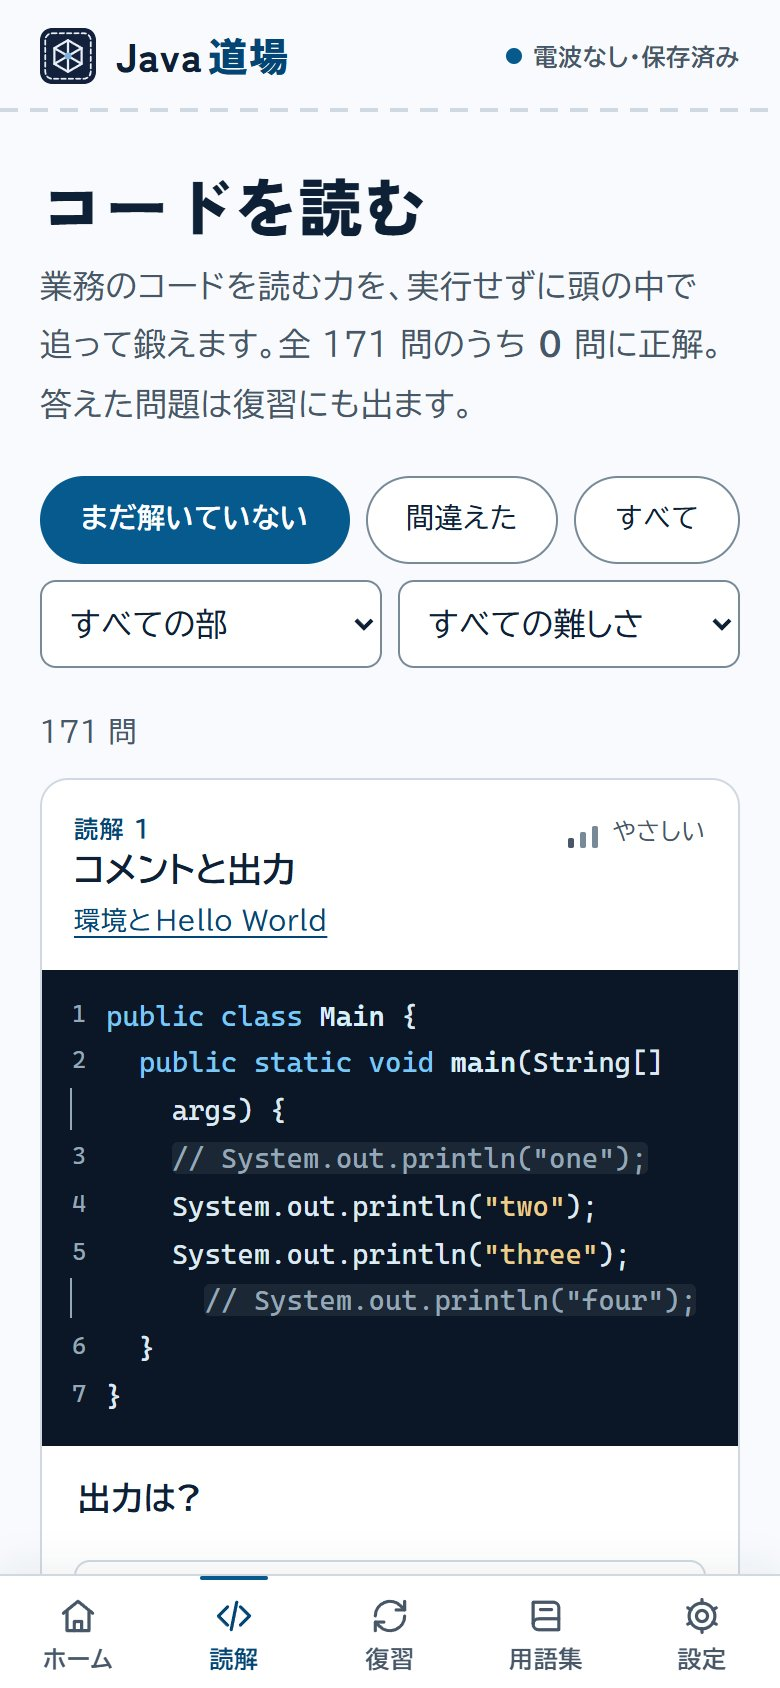
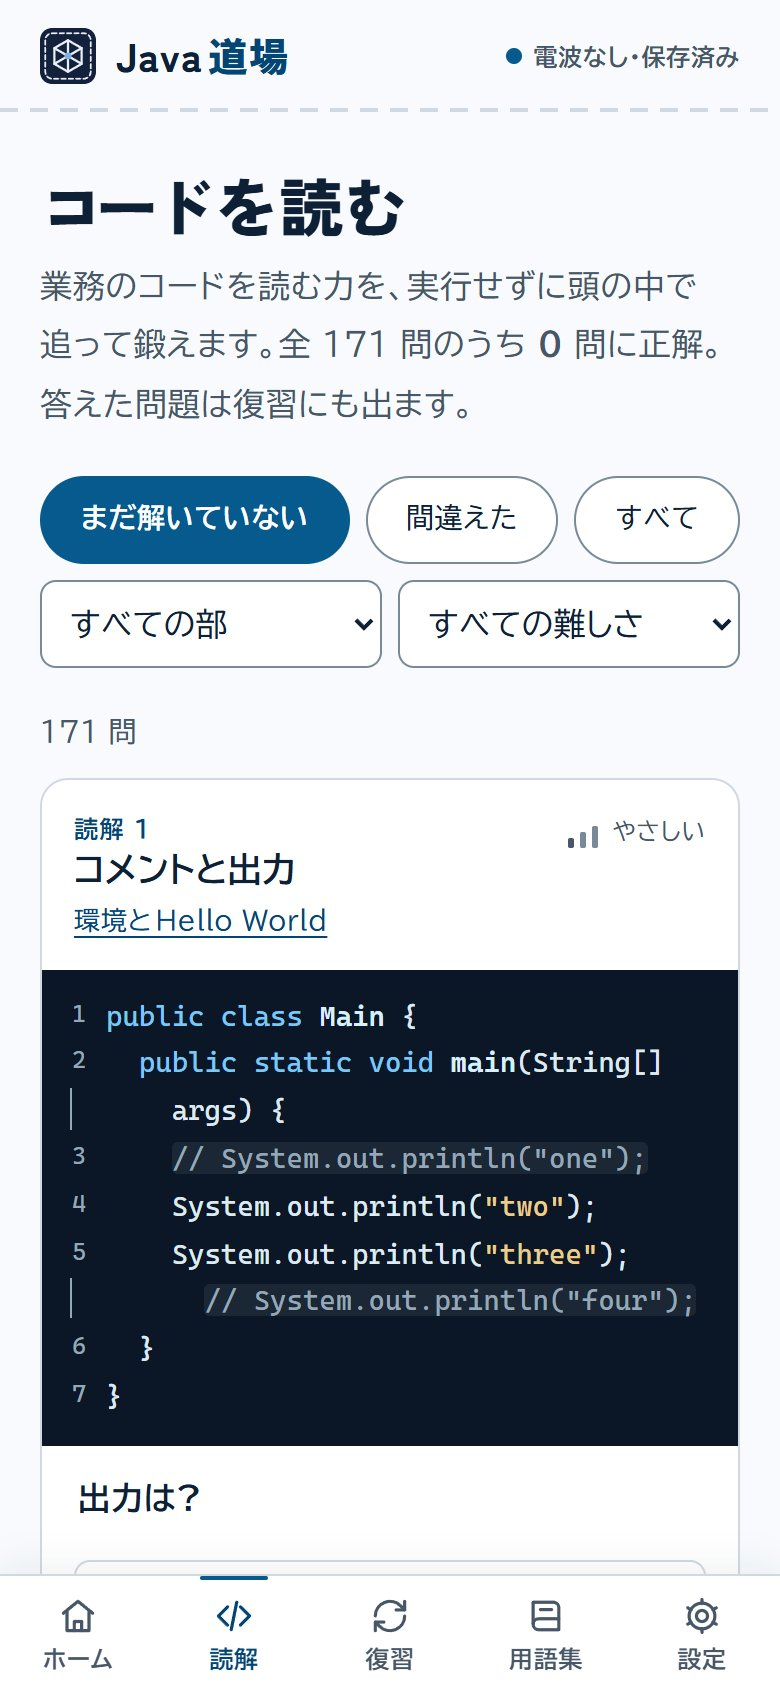
docs: 16 回目の審査の記録、17 回目の撮影とオフラインの確認を残した

Changed region(s): [[0.2154, 0.0924, 0.5538, 0.154]]

diff --git a/docs/reviews/round16-codex.md b/docs/reviews/round16-codex.md
@@ -1,0 +1,36 @@
+# 16 回目の審査(Codex・決まった物差し)
+
+対象: `docs/screenshots/round16/` と `round15/` の比較、ソースと `docs/review-rubric.md`。凍結したコミット e64450b で審査した(利用上限のため、Claude より数時間あとに実行)。
+
+## 点数
+
+Design: 8.5 / Usability: 8.0 / Creativity: 9.0 / Content: 8.5
+
+## 項目の判定
+
+D1 満たす / D2 満たす / D3 満たす / D4 満たす / D5 満たす
+
+U1 満たす / U2 満たす / U3 一部（本文・サンプルのコードに13pxが残る） / U4 一部（用語集の検索・索引に44px未満の操作幅） / U5 満たす
+
+C1 満たす / C2 満たす / C3 満たす / C4 満たす
+
+N1 満たす / N2 満たす / N3 満たす / N4 満たす
+
+判定は同名16組の左右比較、関連ソース、今回のオフライン撮影・記録によるもの。C4は実装確認、N項目は確認した教材の範囲で判定した。掲載例は[Java 21の仕様](https://docs.oracle.com/en/java/javase/21/docs/specs/man/java.html)・[Lombokの仕様](https://projectlombok.org/features/constructor)とも照合した。実機操作・読み上げ・動きの実見・全教材の実行は未検証。両版と配布版JSの`node --check`、配布CSS・JSの一致確認は通過。`./mvnw test`は書き込みを伴うため未実行。ファイル変更なし。
+
+## 前回からの変化(良くなった・悪くなった)
+
+- **良くなった：仕事コードの注釈。** 基本指定が14pxになり、前回の「414・430px幅では13pxに戻る」はソース上で解消。390pxの読みやすさを維持し、PCでもコードと注釈の主従が保たれている。
+- **良くなった：段一覧の高さ制御。** 固定の160px下限を撤去し、空間が足りない場合は帯を上へ送る実装になった。`m-lesson-top.jpg`でも一覧の下端とナビが離れている。ただし、続きの行は文字の上端がわずかに見える程度で、改善効果は控えめ。
+- **良くなった：用語集から教材へ戻るリンク。** 高さ32pxから44pxへ修正。`m-terms.jpg`と`pc-glossary.jpg`では説明との間に余白ができ、リンクと本文を区別しやすくなった。
+- **良くなった：オフラインの確認資料。** 撮影が更新され、現在の運針と「電波なし・保存済み」、図・読解・用語集の表示を確認できる。
+- **維持：顔と独自性。** 大きな札、藍の軸、運針が、ホームから教材・採点まで同じ言葉でつながっている。明暗両表示とも主操作と情報の優先順位は崩れていない。
+- **悪くなった点：比較画像に実用上の退行は見当たらない。** 以下は今回の変更による不具合ではなく、前回レビューで指摘されていなかった既存の基準未達。
+
+## 8.5 に届かない理由(項目・画面・直し方)
+
+1. **U3｜スマホのレッスン本文・「サンプルを見る」：コードの14px化が一部に限られる。**  
+   [app.css:1024](C:/Users/yeol0/Claude/Sayana-r16/src/main/resources/static/css/app.css:1024)では、760px以下の通常の`pre`が13px。14pxへの上書きは`pre.code-lines`だけで、[サンプルの出力](C:/Users/yeol0/Claude/Sayana-r16/src/main/resources/mobile/app.js:583)にはそのクラスが付かない。仕事コード・クイズ・読解では解消したが、本文の例とサンプルを読む場面に、U3の下限未達が残る。**スマホの通常のコードも14px以上にする。横スクロールの方式は維持してよい。**
+
+2. **U4｜用語集の検索・行索引：高さは足りるが、押せる幅が不足する。**  
+   `m-terms.jpg`上部の虫めがねは[幅32px指定](C:/Users/yeol0/Claude/Sayana-r16/src/main/resources/static/css/app.css:745)、一文字の索引は[幅40px指定](C:/Users/yeol0/Claude/Sayana-r16/src/main/resources/static/css/app.css:742)。修正された教材リンクとは別に、検索へ戻る入口と隣接する索引に44×44px未満が残っている。**検索・索引とも最小幅を44pxにし、アイコンの見た目の大きさは維持する。**

diff --git a/docs/design-review.md b/docs/design-review.md
@@ -42,6 +42,8 @@ Claude と Codex が交互にレビューし、Awwwards の 4 項目(Design / Us
 | 14 | Claude | 8.0 | 8.0 | 9.0 | 8.5 | いいえ(同上) |
 | 15 | Codex | 8.5 | 8.0 | 9.0 | 8.5 | いいえ(Usability だけ 8.0) |
 | 15 | Claude | 8.5 | 8.5 | 9.0 | 8.5 | **はい**(初めて全項目 8.5 以上) |
+| 16 | Codex | 8.5 | 8.0 | 9.0 | 8.5 | いいえ(Usability だけ 8.0) |
+| 16 | Claude | 8.5 | 8.5 | 9.0 | 8.5 | **はい**(2 回続けて) |
 
 ## 1 回目(撮影: `docs/screenshots/round1/`、全文: [reviews/round1-codex.md](reviews/round1-codex.md)・[reviews/round1-claude.md](reviews/round1-claude.md))
 
@@ -434,3 +436,18 @@ Claude は初めて全項目 8.5 以上(8.5 / 8.5 / 9.0 / 8.5)。Codex は Usabi
 | 用語集のリンク | 押せる高さを 44px に(字の大きさは同じ) |
 | オフラインの撮影 | 撮り直した(16 回目) |
 | 長音記号 | 直していない(見出しの書体に palt がなく、字形の空き。読むのに困らないと両方が判断) |
+
+## 16 回目(撮影: `docs/screenshots/round16/`、全文: [reviews/round16-codex.md](reviews/round16-codex.md)・[reviews/round16-claude.md](reviews/round16-claude.md))
+Claude は 2 回続けて全項目 8.5 以上。Codex は Usability だけ 8.0 で、15 回目の指摘 3 件はどちらも「直った」と判定。Codex は利用上限のため、数時間あとに同じ凍結コミットで審査した。
+
+### 主な指摘
+- スマホの本文の例・サンプルのコード(`pre`)が 760px 以下で 13px。14px にしたのは `pre.code-lines` だけだった(Codex)
+- 用語集の索引の札が幅 40px、虫めがねが幅 32px(高さは 44px)(両方)
+- 「コードを読む」の長音記号の空き(Claude。8.5 には影響しない)
+
+### 直したこと(17 回目の前)
+| 指摘 | 直し方 |
+|---|---|
+| コード 13px | 760px 以下の `pre` も 14px(長い行は横スクロールのまま) |
+| 索引の幅 | 索引の札と虫めがねを幅 44px(字とアイコンの大きさは同じ) |
+| 長音記号 | 見出し(h1)の「ー」だけを包み、両側を -.15em 詰める(中に要素がある見出しは崩さない) |

diff --git a/docs/reviews/round16-claude.md b/docs/reviews/round16-claude.md
@@ -1,0 +1,27 @@
+# 16 回目の審査(Claude・作業の経緯を知らないサブエージェント・決まった物差し)
+
+対象: `docs/screenshots/round16/` と `round15/` の比較(16 組をハッシュで比べ、変わったのは m-lesson-top・m-terms・pc-glossary の 3 枚)、撮り直した `docs/screenshots/offline/`、ソースと `docs/review-rubric.md`。凍結したコミット e64450b で審査した。
+
+## 点数
+Design: 8.5 / Usability: 8.5 / Creativity: 9.0 / Content: 8.5
+
+## 項目の判定
+- D1 一部(読解の題「コードを読む」の長音記号の両側の空き。15 回目から変わらない)/ D2〜D5 満たす
+- U1〜U3 満たす / U4 一部(用語集の索引の札が幅 40px、虫めがねが幅 32px。高さは 44px ある)/ U5 満たす
+- C1〜C4 満たす(C4 は実装を読んで判断)
+- N1〜N4 満たす
+- 実機での操作と読み上げは確かめていない(未検証)
+
+## 前回からの変化
+- 良くなった: 段の一覧が「5 演習」を半分見せて切れ、続きがあると分かる。160px の下限は消えた。用語集から教材へのリンクが 44px。説明の基本の大きさが 14px になり、414・430px 幅の抜けがなくなった。オフラインの撮影が新しい画面になった
+- 少し悪くなった(点数には入れない): リンクを高くした分、用語集の「〇〇 で」と説明のあいだが広がった。段の一覧の下端と下のメニューのあいだに裏の本文が約 35px 見える
+- 変わらない: 長音記号の空き
+
+## 8.5 に届かない理由
+なし(どの軸も 8.5 以上)。15 回目の指摘 3 件はどれも直ったと判定。
+
+参考(9 に届かない理由。点数には入れない):
+1. D1 — 題の「ー」だけを包んで左右を約 -.1em 詰める
+2. U4 — 用語集の索引の札と虫めがねを幅 44px に
+3. D3 — 用語集のリンクの高さを負のマージンで打ち消し、見た目の空きを戻す
+4. Content は画面に出ている範囲でしか確かめていないので 9 にしなかった
